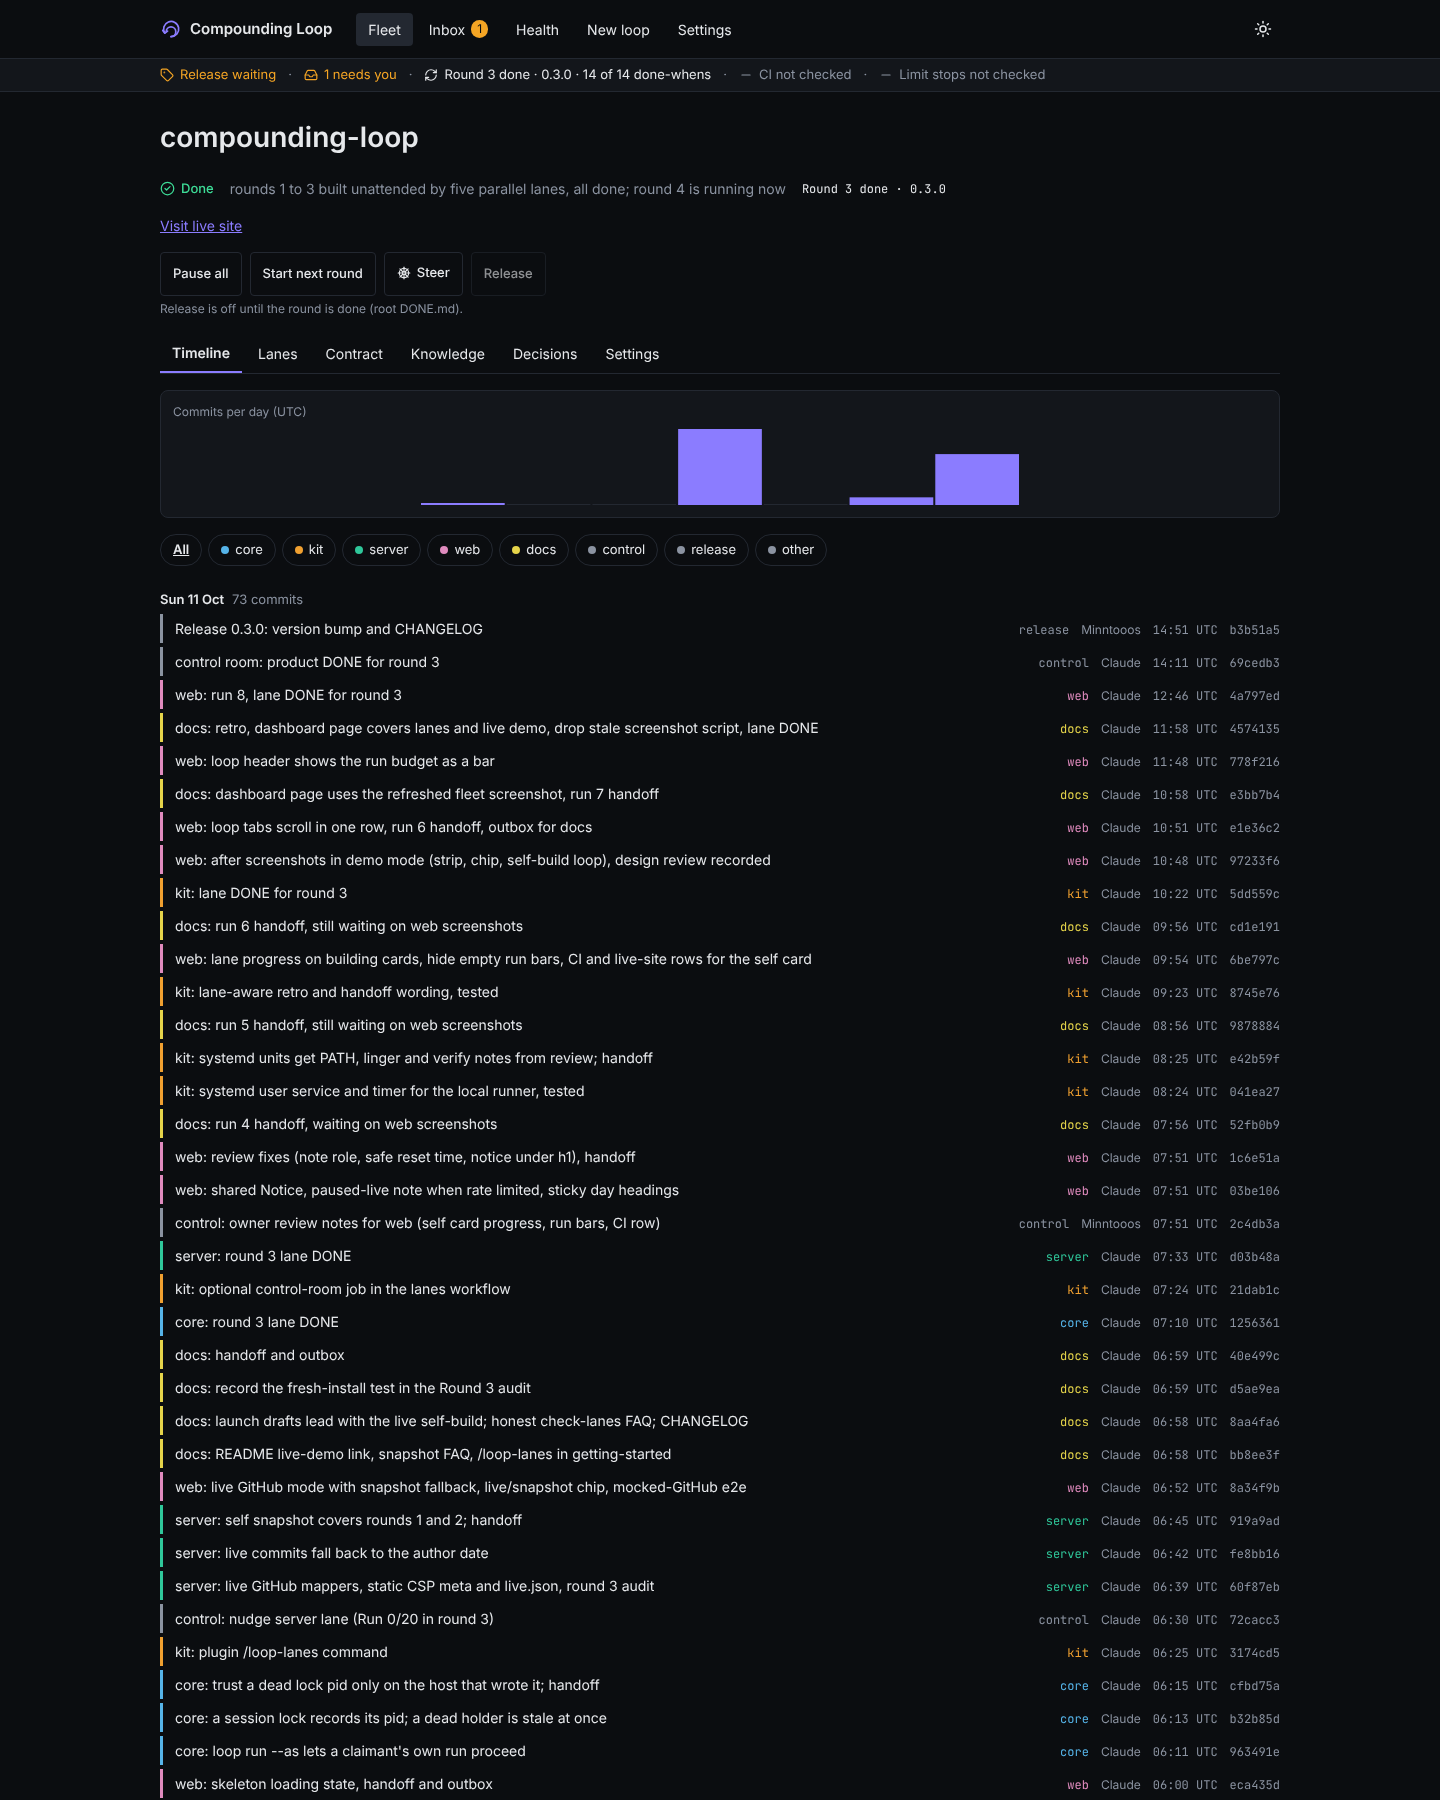
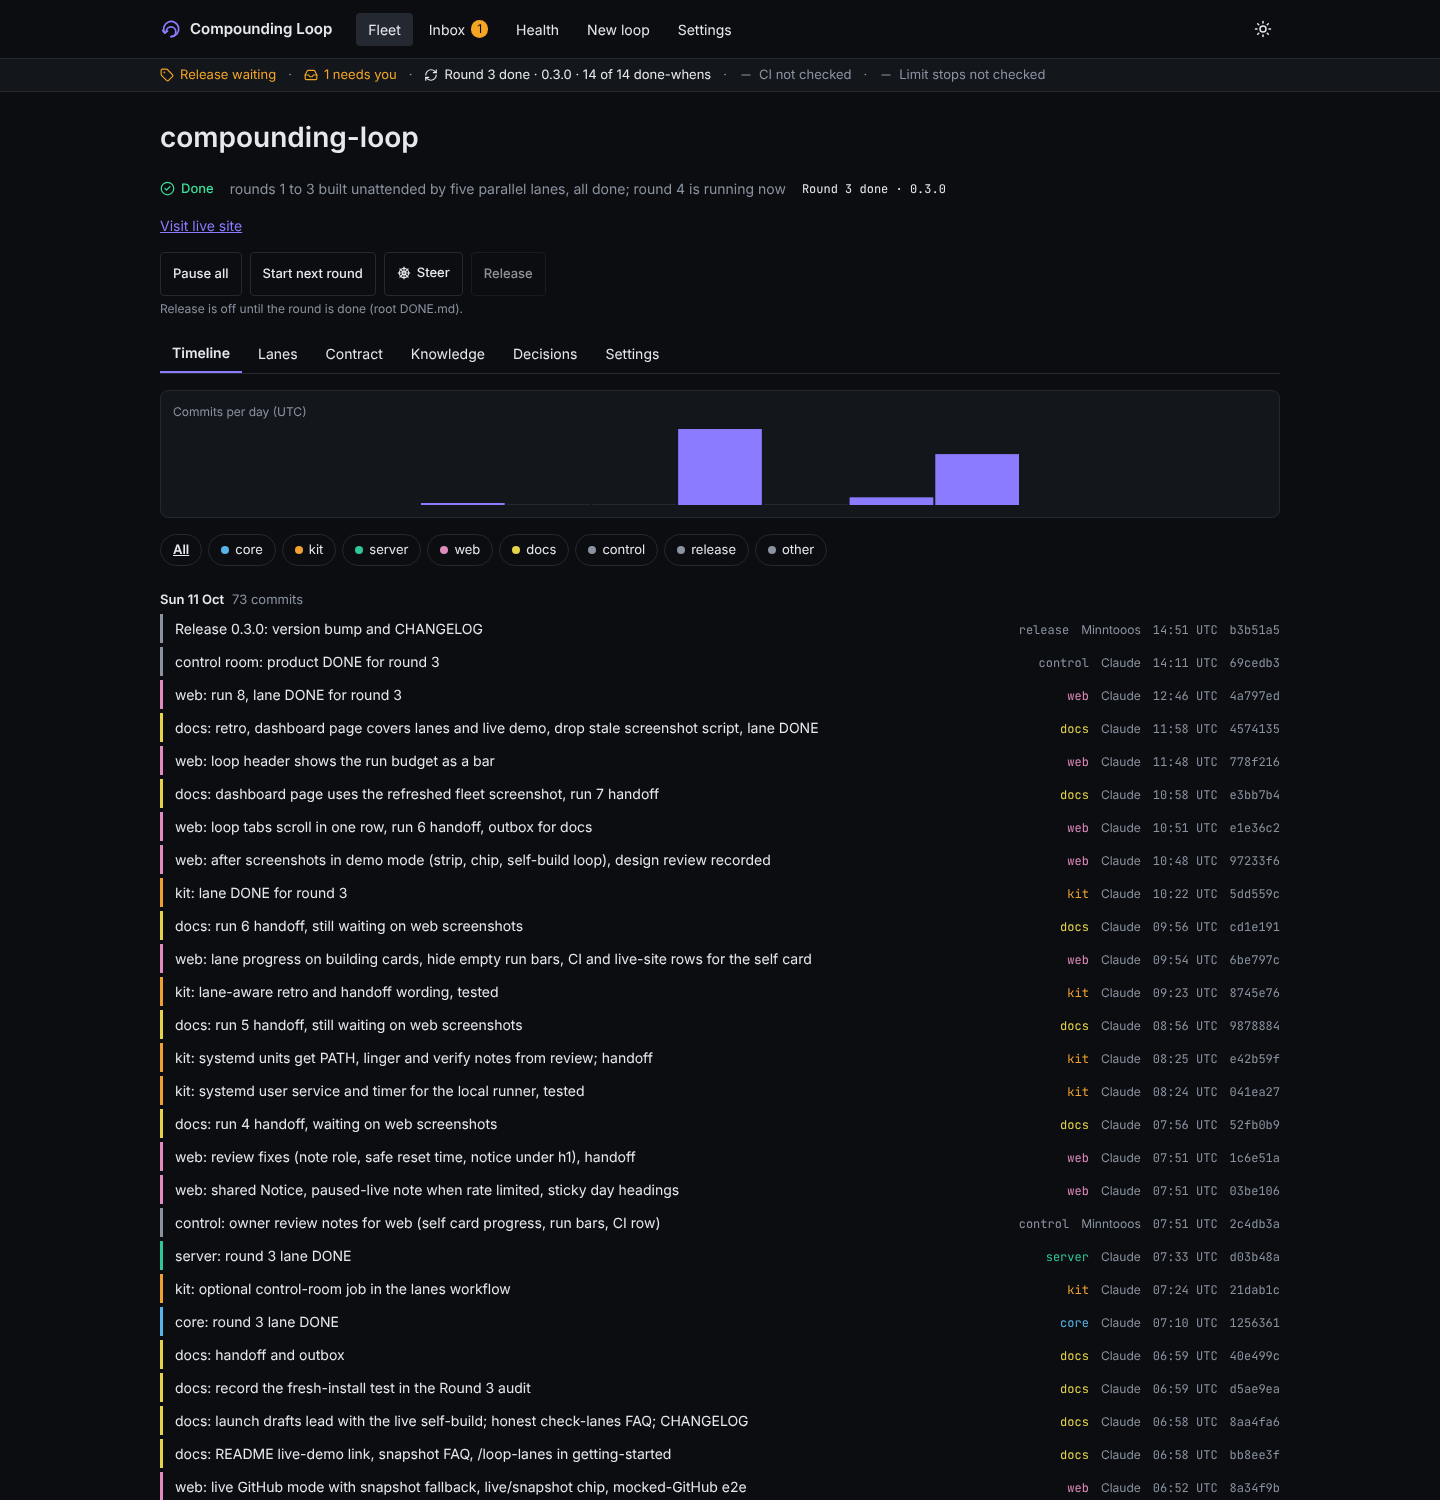
web: screenshot spec review fixes (laptop project only, 1500 px cap, config baseURL); audit and outbox for docs
Lane: web

Claude-Session: https://claude.ai/code/session_01PgBFZVhjqA5Yqsn2UDR3WE

diff --git a/tests/e2e/screenshots.spec.ts b/tests/e2e/screenshots.spec.ts
@@ -5,7 +5,7 @@ import { expect, test, type Page } from '@playwright/test';
 // Not part of `npm test`. Run with the laptop project only:
 //   SCREENS=1 npx playwright test screenshots --project=laptop
 // writes the docs set (README and docs/*.md) to web/design/docs: laptop 1440x900 @1x and phone 375x812 @2x,
-// each cut to the top of the page (two laptop screens, one and a half phone screens) and under 400 kB
+// each cut to the top of the page (about one and two-thirds laptop screens, one and a half phone screens) and under 400 kB
 // (IDEA.md Round 5 D). docs owns docs/assets/screens and copies them from there.
 // Design-review sets (before/after, 1440 and 375 px @1x, both themes, full page):
 //   SCREENS=1 SCREENS_DIR=web/design/before npx playwright test screenshots --project=laptop
@@ -18,9 +18,12 @@ const MAX_BYTES = 400 * 1024;
 interface Shot { size: string; width: number; height: number; scale: number; maxHeight?: number }
 const shots: Shot[] = reviewDir
   ? [{ size: 'desktop', width: 1440, height: 900, scale: 1 }, { size: 'phone', width: 375, height: 812, scale: 1 }]
-  : [{ size: 'laptop', width: 1440, height: 900, scale: 1, maxHeight: 1800 }, { size: 'phone', width: 375, height: 812, scale: 2, maxHeight: 1218 }];
+  : [{ size: 'laptop', width: 1440, height: 900, scale: 1, maxHeight: 1500 }, { size: 'phone', width: 375, height: 812, scale: 2, maxHeight: 1218 }];
 
 test.skip(!process.env['SCREENS'], 'screenshots are generated on demand');
+// Each shot sets its own viewport; a second project would only write the same files twice.
+// Playwright requires a destructuring pattern for the fixtures argument, hence `{}`.
+test.beforeEach(({}, info) => test.skip(info.project.name !== 'laptop', 'shot once, from the laptop project'));
 
 async function shoot(page: Page, shot: Shot, path: string): Promise<void> {
   if (!shot.maxHeight) {
@@ -35,10 +38,10 @@ async function shoot(page: Page, shot: Shot, path: string): Promise<void> {
 for (const shot of shots) {
   for (const theme of ['light', 'dark'] as const) {
     for (const [name, route] of Object.entries(screens)) {
-      test(`screenshot ${name} ${theme} ${shot.size}`, async ({ browser }) => {
+      test(`screenshot ${name} ${theme} ${shot.size}`, async ({ browser, baseURL }) => {
         mkdirSync(dir, { recursive: true });
         const context = await browser.newContext({
-          baseURL: 'http://localhost:4173',
+          baseURL,
           viewport: { width: shot.width, height: shot.height },
           deviceScaleFactor: shot.scale,
           isMobile: shot.size === 'phone',

diff --git a/.ai/audit/web.md b/.ai/audit/web.md
@@ -24,6 +24,9 @@ Method: read IDEA.md Round 5 A and C against `web/src` on a fresh pull (`npm tes
 
 **Status (run 1):** R5-1, R5-2, R5-5, R5-7, R5-8 fixed with tests. `tests/e2e/attention.spec.ts` failed on the old code (banner/badge 2 vs 1, shipped still waiting) and passes now; unit tests for `attentionItems`, `releasedText`, `headerRound`, `testStamp`, `releaseBlocker`. R5-10 fixed in run 1 (Releases tag/npm chips, shipped replaces Ready to ship and Release; lanes.spec.ts). R5-6 fixed in run 1 too (`tests/e2e/phone-tabs.spec.ts` failed before: Settings cut at 375 px with no fade). Open: R5-3 (waits on server's state field), R5-4, R5-9 e2e.
 
+### Unit 7, run 4: docs screenshot set
+`SCREENS=1 npx playwright test screenshots` now writes the docs set to `web/design/docs/` (docs owns `docs/assets/screens/` and copies it): 7 screens × 2 themes × laptop 1440×900 @1x (top 1500 px) and phone 375×812 @2x (top 1218 px). The spec asserts every file under 400 kB (largest 290 kB; the old self phone shots were 5.4 MB). Code reviewer: no blockers; fixed its notes (shoot once from the laptop project, 1500 px laptop cap for headroom, baseURL from config). Open, not web's data: the self shots show the bundled round-3 self snapshot ("Round 3 done · 0.3.0"); a re-shoot after server's round 5 fixtures will show the cockpit.
+
 ### C8 design review, run 3 (C4 steer composer)
 Independent reviewer subagent, local-mode screenshots at 1440 and 375 px, both themes: home, loop page, Steer dialog with text, Lanes tab. (The demo snapshot has no laned loop, so demo mode was covered by `tests/e2e/steer.spec.ts` instead.)
 Five questions from home: needs me **yes**; running or stalled **partly** (self card "Done" vs "round 4 is running now": server's snapshot fixture, open from run 2); limit stops **yes** ("not checked"); CI **yes**; ready to ship **partly** (strip says Release waiting; the Ship segment needs `ship` in the snapshot).

diff --git a/.ai/lanes/web/outbox.md b/.ai/lanes/web/outbox.md
@@ -1,5 +1,7 @@
 # Outbox: web
 
+2026-10-13 06:58 UTC · to docs · optimised after-screenshots are on main in `web/design/docs/` (same names as `docs/assets/screens/`: `<fleet|loop|self|inbox|health|settings|new>-<light|dark>-<laptop|phone>.png`, laptop 1440 @1x, phone 375 @2x, top of page, each under 400 kB, largest 290 kB). Copy them over `docs/assets/screens/` (replaces the 5.4 MB self phone shots). Re-shoot: `SCREENS=1 npx playwright test screenshots`. The self shots still show server's round-3 self snapshot; I re-shoot when server's round 5 fixtures land.
+
 2026-10-13 06:00 UTC · to docs · new on a loop page: a *Steer* button (control bar, each lane row on the Lanes tab, key `S`, command palette "Steer a lane"). It shows the exact steer.md entry. Demo: *Edit on GitHub* opens `.ai/lanes/<lane>/steer.md` in GitHub's editor and copies the entry to paste under the intro (or "Create it with this entry" when the file is missing). Local: *Copy command* copies `npx compounding-loop steer [--standing] [--author x] -- <lane> '<text>'`.
 
 2026-10-13 06:00 UTC · to server · C4 steer composer is on main (demo: GitHub edit/new-file URLs; local: copies `loop steer` command). To finish C4/C5 web needs: (1) `POST /api/loops/:id/steer {lane,text,standing,author?}` + the author the server would use, (2) steer entries per lane on LoopDetail (parsed `SteerEntry[]` from `.ai/lanes/<lane>/steer.md`, also in live mode via laneFilePaths) for the Steer history, (3) parsed `schedule` (Schedule) + trailing idle count per lane on LoopDetail and `POST …/schedule {action,lane,until?,reason?}`, (4) the demo fixtures with steer/schedule/run-log data. Until then the history and schedule controls wait.
